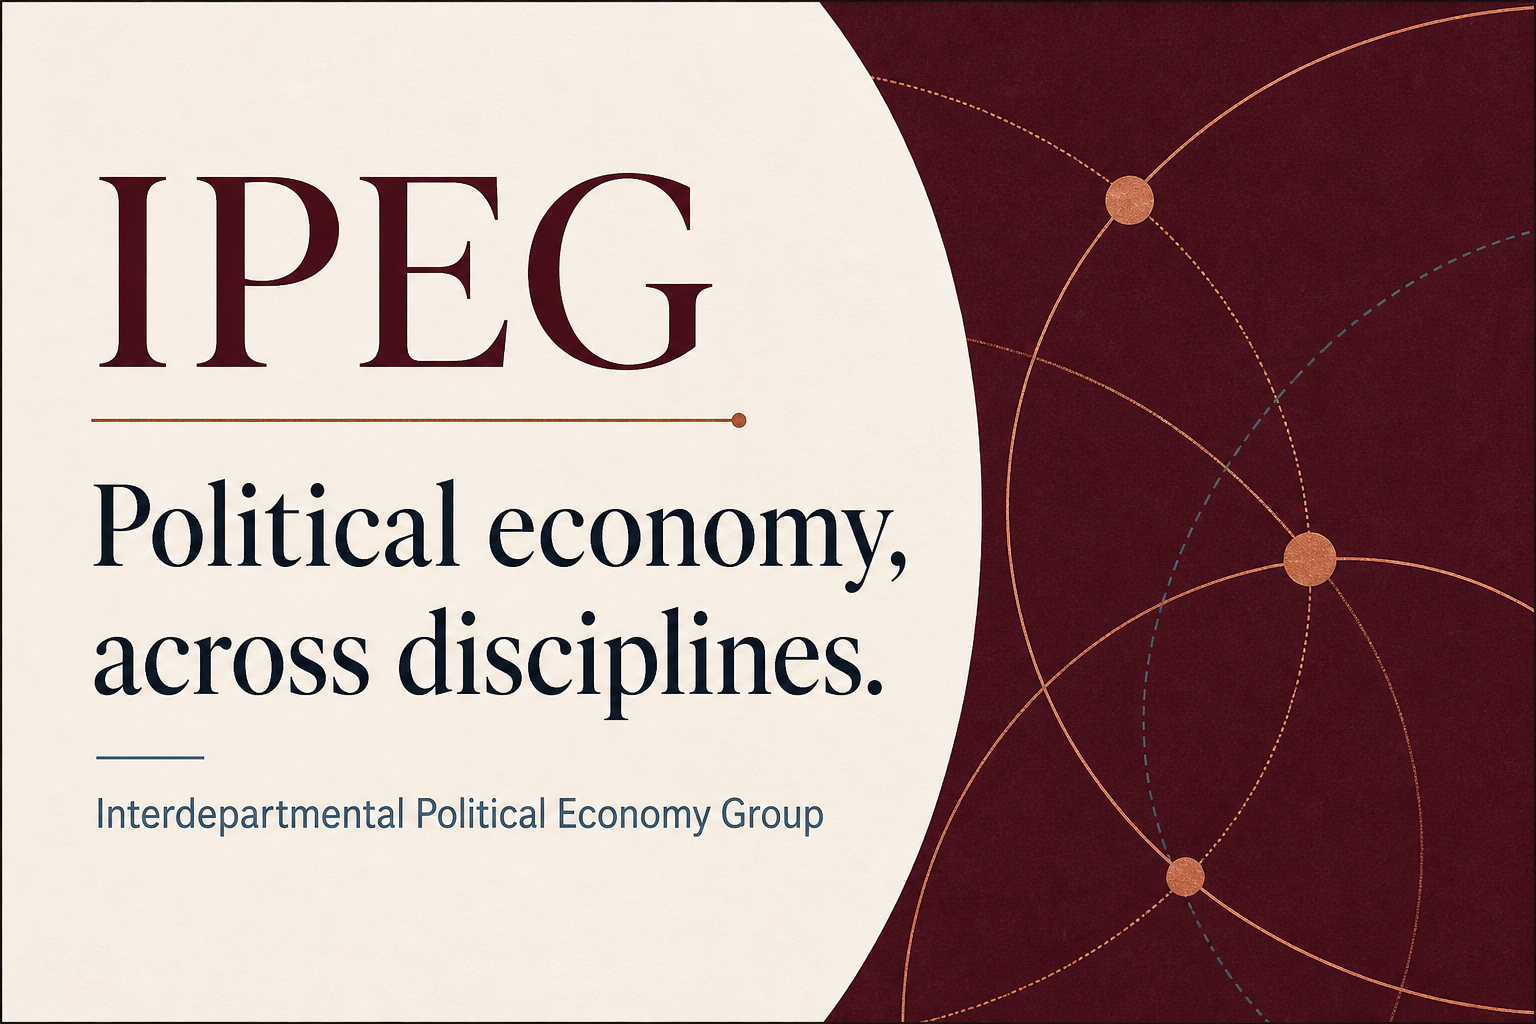
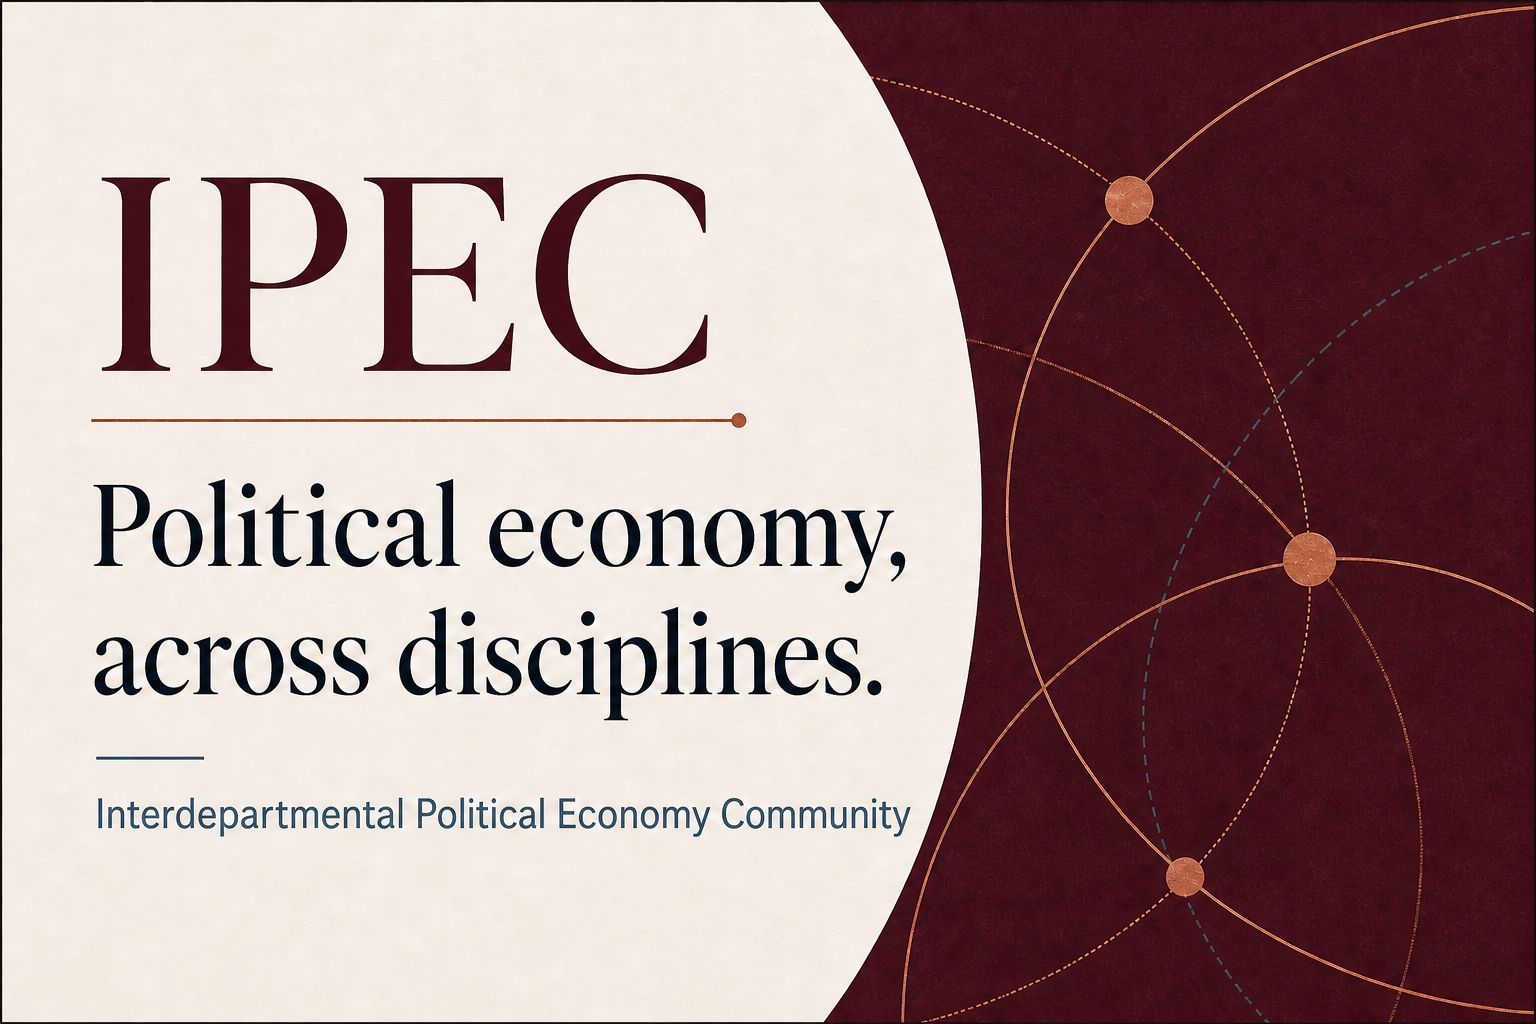
Rebrand seminar site as IPEC

diff --git a/src/styles/global.css b/src/styles/global.css
@@ -195,6 +195,7 @@ nav a:hover, .back-link:hover { color: var(--maroon); }
 .section-heading > p { font-family: var(--serif); font-size: 1.13rem; margin: 0; }
 
 .talk-grid { display: grid; gap: 18px; grid-template-columns: repeat(3, 1fr); }
+.current-program .talk-grid { grid-template-columns: minmax(0, 620px); }
 
 .talk-card {
   background: #e8e1d6;
@@ -293,6 +294,7 @@ footer p, .detail-footer p { font-size: .76rem; letter-spacing: .04em; margin: 0
   .next-season { gap: 36px; grid-template-columns: 1fr; margin: 42px 24px 0; }
   .section-heading { gap: 32px; grid-template-columns: 1fr; }
   .talk-grid { grid-template-columns: 1fr 1fr; }
+  .current-program .talk-grid { grid-template-columns: minmax(0, 620px); }
   .archive-row { grid-template-columns: 130px 1fr 60px; }
   .archive-row h3 { grid-column: 2 / 4; }
   .about { gap: 48px; grid-template-columns: 1fr; }
@@ -320,6 +322,7 @@ footer p, .detail-footer p { font-size: .76rem; letter-spacing: .04em; margin: 0
   .next-season { padding: 38px 26px; }
   .section-shell { padding: 78px 20px; }
   .talk-grid { grid-template-columns: 1fr; }
+  .current-program .talk-grid { grid-template-columns: 1fr; }
   .talk-card { min-height: 340px; }
   .archive { padding-top: 0; }
   .archive-row { gap: 12px; grid-template-columns: 1fr 45px; }

diff --git a/src/data/events.ts b/src/data/events.ts
@@ -5,8 +5,8 @@ export type EventRecord = {
   title: string;
   date: string;
   dateLabel: string;
-  term: "Fall 2025" | "Spring 2026";
-  kind: "Visiting" | "Internal";
+  term: "Fall 2025" | "Spring 2026" | "Fall 2026";
+  kind: "Visiting" | "Internal" | "Community";
   time: string;
   location: string;
   abstract?: string;
@@ -16,6 +16,19 @@ export type EventRecord = {
 };
 
 export const events: EventRecord[] = [
+  {
+    slug: "fall-2026-welcome-meeting",
+    speaker: "IPEC co-organizers",
+    affiliation: "Texas A&M University",
+    title: "Fall 2026 Welcome Meeting",
+    date: "2026-08-27",
+    dateLabel: "August 27, 2026",
+    term: "Fall 2026",
+    kind: "Community",
+    time: "12:30–1:30 p.m.",
+    location: "Allen 3125",
+    abstract: `An informal opening meeting over lunch for faculty and graduate students interested in political economy. The co-organizers will introduce IPEC's three meeting formats, preview the academic-year program, and invite questions and ideas from the community.`,
+  },
   {
     slug: "cody-tuttle-school-desegregation",
     speaker: "Cody Tuttle",

diff --git a/README.md b/README.md
@@ -1,6 +1,6 @@
-# IPEG seminar website
+# IPEC seminar website
 
-Public website for the Interdepartmental Political Economy Group at Texas A&M University.
+Public website for the Interdepartmental Political Economy Community at Texas A&M University.
 
 ## Local development
 
@@ -11,4 +11,4 @@ npm run dev
 
 ## Publishing
 
-Pushes to `main` are deployed automatically to GitHub Pages. The site is fully static and can later be moved to a custom domain or an official university host without changing the content model.
+Pushes to `main` are deployed automatically to GitHub Pages at <https://ipecseminar.org/>. The site is fully static and can later be moved to an official university host without changing the content model.
